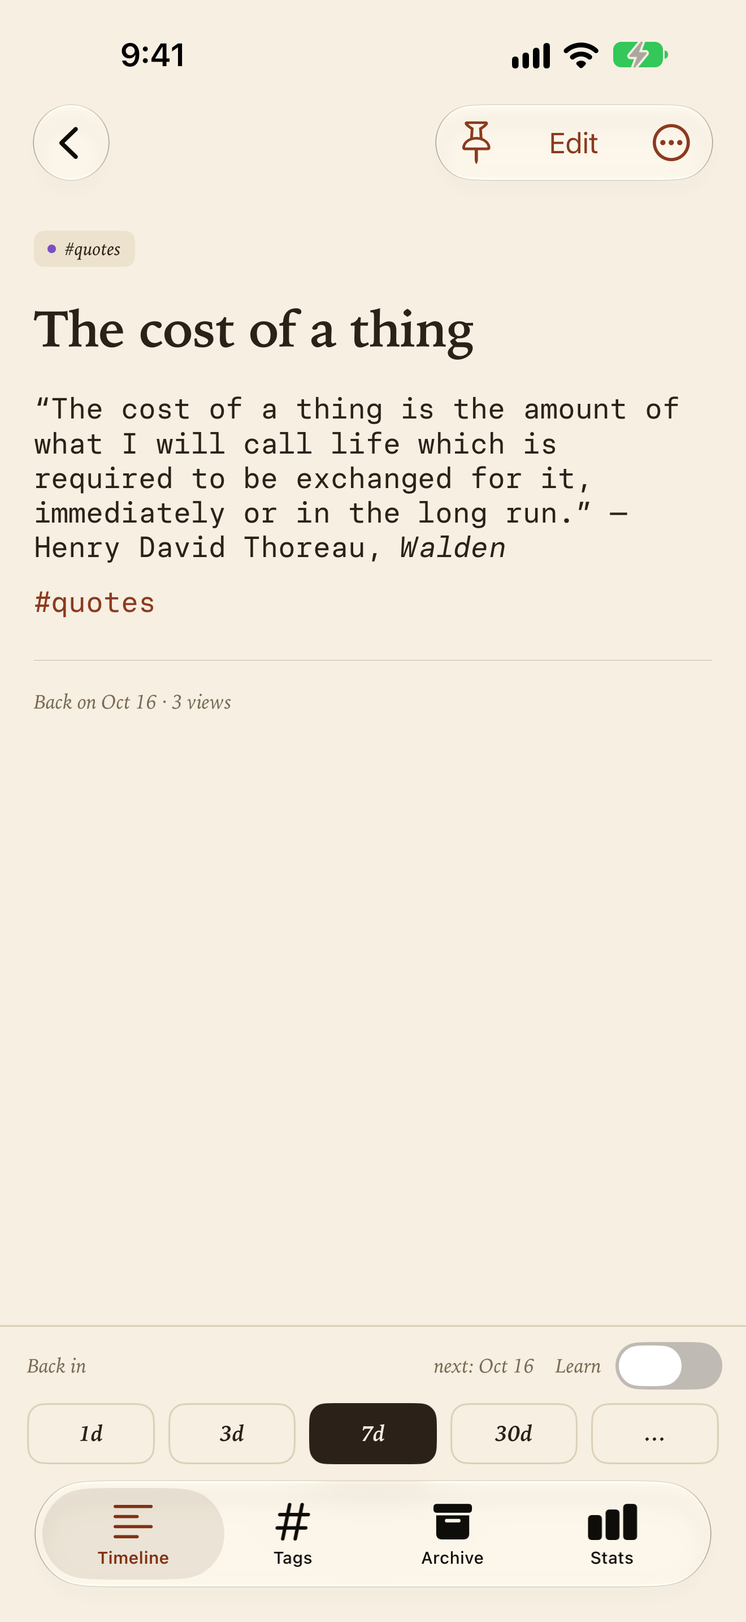
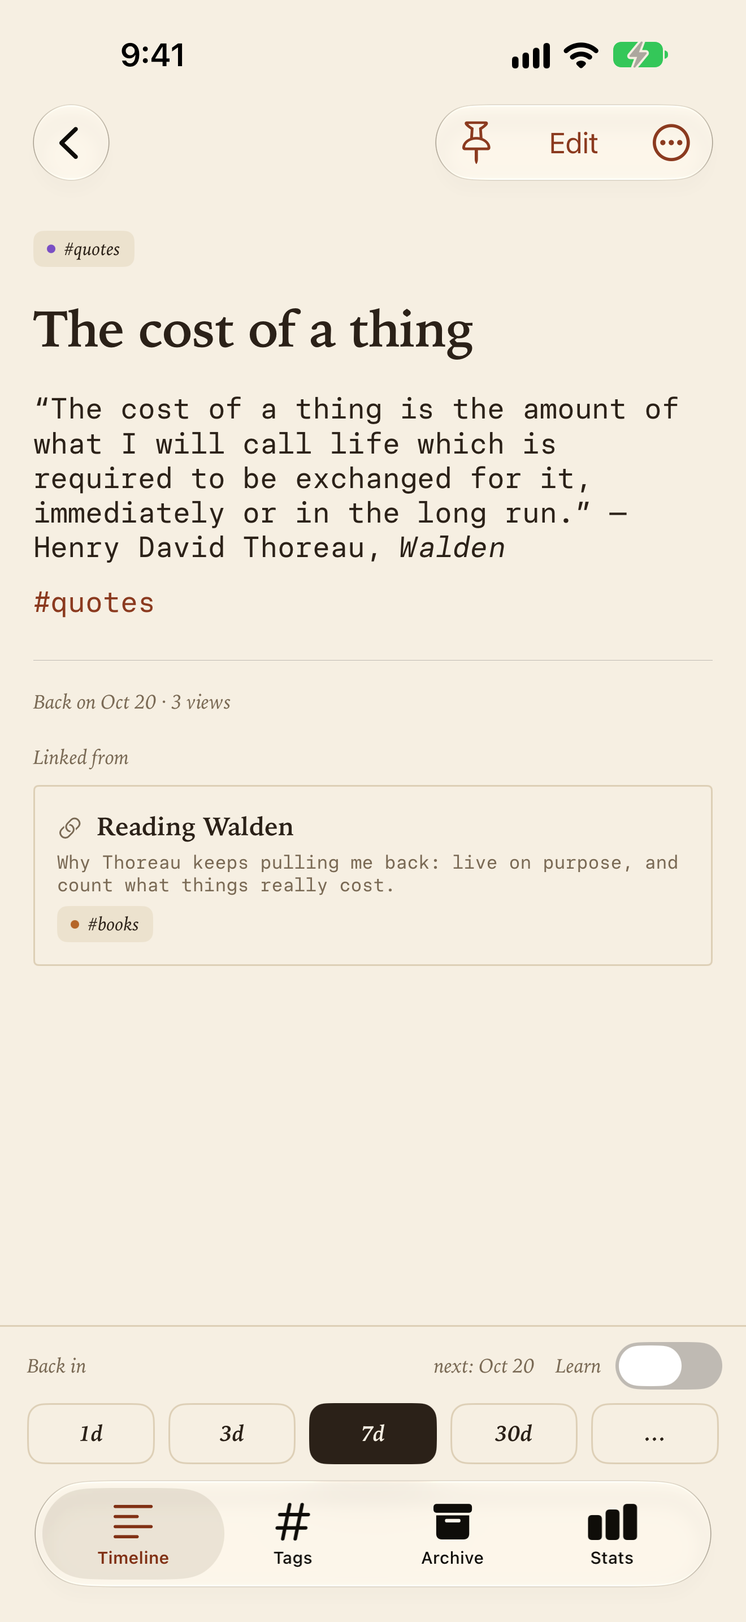
Screenshots: Pop-theme frame, no phones, linked thoughts and files, ten shots
Each capture is a crop in a Pop card with a hard shadow, placed per shot in copy.js (whole screens, cropped
tops, cards off the canvas, tilts). Futura/Avenir Next headlines on Pop yellow; captures stay Ink. New shots:
linked thoughts (a "Reading Walden" thought linking three others) and blocks (gallery plus a PDF file block,
both drawn in code).

Claude-Session: https://claude.ai/code/session_01AqnxEHZ3DQgCfWnMDku6rd

diff --git a/app-store-assets/Screenshots/src/copy.js b/app-store-assets/Screenshots/src/copy.js
@@ -1,23 +1,78 @@
-// All screenshot copy, in App Store order. `name` is the output; `raws` are the captures it shows from raw/ (set by
-// ThoughtRepsUITests/ScreenshotTests.swift), one phone each, laid out by `layout` (default: one phone; 'pair': before
-// and after; 'cascade': stepping down to the right, the last in front). `<mark>` highlights a word; `<loop></loop>` draws the loop
-// mark. Lines of a headline are separated by <br>. Loaded by shot.html, preview.html and gen.mjs.
+// All screenshot copy, in App Store order. `name` is the output. `cards` are the app captures it shows, back to front,
+// each a crop of one raw/ capture (set by ThoughtRepsUITests/ScreenshotTests.swift) in a Pop card with a hard shadow:
+//   raw            the capture's name in raw/
+//   top, bottom    the raw rows shown (raw px; 330-2600 is a thought's content without the nav buttons and tab bar)
+//   pad            blank raw px added below the crop, in `bg` (default the Ink paper, white)
+//   x, y, s, rot   the card's left and top on the 1320x2868 canvas, its scale (raw px to canvas px) and its tilt in degrees
+// A card whose bottom runs past the canvas shows only the top of the screen. `<mark>` highlights a word; `<loop></loop>`
+// draws the loop mark. Lines of a headline are separated by <br>. Loaded by shot.html, preview.html and gen.mjs.
+// The frame is the Pop theme (colors, Futura, Avenir Next); the captures inside are the Ink theme, except the themes shot.
 // Claims are checked against the shipped app: default interval 7 days (Settings), quick intervals 1d/3d/7d/30d plus
-// "…" with more and "Custom…" (ThoughtDetailView), Markdown + gallery blocks, blurred blocks hidden until tapped
-// ("Blur until tapped"), six free themes (AppTheme), search scopes Active/Archived/All, tag colors (Change Color),
-// one reminder a day at the chosen time (SettingsView, ReminderPlanner).
-// The first three show in search results. One supporting line per shot may carry a search word (commonplace book,
-// quote, idea, note, journal) where it reads naturally.
+// "…" with more and "Custom…" (ThoughtDetailView), Markdown, gallery, file and link blocks, blurred blocks hidden until
+// tapped ("Blur until tapped"), linked thoughts open on tap (LinkedThoughtCard), six free themes (AppTheme), search
+// scopes Active/Archived/All, tag colors (Change Color), one reminder a day at the chosen time (SettingsView,
+// ReminderPlanner). The first three show in search results. One supporting line per shot may carry a search word
+// (commonplace book, quote, idea, note, journal) where it reads naturally.
 // Back to front: light and dark alternate, and Ink, the default, is in front.
 const CASCADE = ['pop', 'terminal', 'garden', 'midnight', 'library', 'ink'];
+const THEME_BG = { pop: '#fff6e3', terminal: '#050805', garden: '#f3f5ee', midnight: '#0e1424', library: '#f6efe2', ink: '#ffffff' };
 const SHOTS = [
-  { name: '01-timeline', headline: 'Write it down.<br>It comes <mark>back</mark><loop></loop>', support: 'A commonplace book that brings every quote and idea back in 7 days.' },
-  { name: '02-blurred', headline: 'Hide the answer.<br><mark>Test</mark> yourself.', support: 'Blur part of any thought until you tap to reveal it.', layout: 'pair', raws: ['02-blurred-before', '02-blurred-after'] },
-  { name: '03-learn', headline: 'Learn it<br>for <mark>good</mark>.', support: 'Tap Again or Got it. Each Got it waits longer: 7, 12, 20 days.' },
-  { name: '04-themes', headline: 'Six looks,<br><mark>all</mark> included.', support: 'Ink, Library, Midnight, Garden, Terminal and Pop.', layout: 'cascade', raws: CASCADE.map((t) => `04-themes-${t}`) },
-  { name: '05-interval', headline: 'Pick when you<br>see it <mark>again</mark>.', support: 'Bring it back in 1, 3, 7 or 30 days, or set your own.' },
-  { name: '06-markdown-photos', headline: 'Write in <mark>Markdown</mark>,<br>add photos.', support: 'Headings, lists, quotes and photo galleries in any thought.' },
-  { name: '07-search', headline: 'Find any thought<br>in a <mark>second</mark>.', support: 'Search every note and journal entry, active or archived.' },
-  { name: '08-tags', headline: 'Sort with <mark>#tags</mark>.', support: 'Tag thoughts as you write, and give each tag its own color.' },
-  { name: '09-reminders', headline: 'Get a <mark>nudge</mark>,<br>not a nag.', support: 'One reminder a day at the time you pick, only when thoughts are due.' },
+  {
+    name: '01-timeline', headline: 'Write it down.<br>It comes <mark>back</mark><loop></loop>',
+    support: 'A commonplace book that brings every quote and idea back in 7 days.',
+    cards: [{ raw: '01-timeline', top: 330, bottom: 2560, pad: 40, x: 105, y: 740, s: 0.8 }],
+  },
+  {
+    name: '02-linked', headline: 'Map how your<br>ideas <mark>connect</mark>.',
+    support: 'Link any thought to another, then tap through to follow the thread.',
+    cards: [{ raw: '10-linked', top: 330, bottom: 2600, pad: 80, x: 131, y: 750, s: 0.76 }],
+  },
+  {
+    name: '03-blocks', headline: 'Photos, files<br>and <mark>more</mark>.',
+    support: 'Write in Markdown, then add photo galleries and files to any thought.',
+    cards: [{ raw: '06-markdown-photos', top: 330, bottom: 2600, pad: 80, x: 140, y: 790, s: 0.74, rot: -3 }],
+  },
+  {
+    name: '04-blurred', headline: 'Hide the answer.<br><mark>Test</mark> yourself.',
+    support: 'Blur part of any thought until you tap to reveal it.',
+    cards: [
+      { raw: '02-blurred-before', top: 330, bottom: 1520, x: 50, y: 760, s: 0.7, rot: -3 },
+      { raw: '02-blurred-after', top: 330, bottom: 1520, x: 292, y: 1640, s: 0.7, rot: 3 },
+    ],
+  },
+  {
+    name: '05-learn', headline: 'Learn it<br>for <mark>good</mark>.',
+    support: 'Tap Again or Got it. Each Got it waits longer: 7, 12, 20 days.',
+    cards: [{ raw: '03-learn', top: 330, bottom: 2600, pad: 80, x: 131, y: 770, s: 0.76, rot: 3 }],
+  },
+  {
+    name: '06-themes', headline: 'Six looks,<br><mark>all</mark> included.',
+    support: 'Ink, Library, Midnight, Garden, Terminal and Pop.',
+    cards: CASCADE.map((t, i) => ({
+      raw: `04-themes-${t}`, top: 330, bottom: 1300, x: i % 2 ? 467 : 60, y: 700 + i * 280, s: 0.56, rot: i % 2 ? 3 : -3, bg: THEME_BG[t],
+    })),
+  },
+  {
+    name: '07-interval', headline: 'Pick when you<br>see it <mark>again</mark>.',
+    support: 'Bring it back in 1, 3, 7 or 30 days, or set your own.',
+    cards: [
+      { raw: '05-interval', top: 330, bottom: 2340, x: 70, y: 740, s: 0.7 },
+      { raw: '05-interval', top: 2360, bottom: 2620, x: 66, y: 2080, s: 0.9, rot: -3 },
+    ],
+  },
+  {
+    name: '08-search', headline: 'Find any thought<br>in a <mark>second</mark>.',
+    support: 'Search every note and journal entry, active or archived.',
+    cards: [{ raw: '07-search', top: 170, bottom: 2868, x: 62, y: 740, s: 0.88, rot: -2 }],
+  },
+  {
+    name: '09-tags', headline: 'Sort with <mark>#tags</mark>.',
+    support: 'Tag thoughts as you write, and give each tag its own color.',
+    cards: [{ raw: '08-tags', top: 330, bottom: 2400, pad: 60, x: 131, y: 760, s: 0.76, rot: -3 }],
+  },
+  {
+    name: '10-reminders', headline: 'Get a <mark>nudge</mark>,<br>not a nag.',
+    support: 'One reminder a day at the time you pick, only when thoughts are due.',
+    cards: [{ raw: '09-reminders', top: 150, bottom: 2700, x: 181, y: 760, s: 0.7, rot: 3, bg: '#1d1e22' }],
+  },
 ];

diff --git a/app-store-assets/Screenshots/src/shot.html b/app-store-assets/Screenshots/src/shot.html
@@ -2,23 +2,30 @@
 <meta charset="utf-8" />
 <title>App Store screenshot</title>
 <link rel="stylesheet" href="../../Header/src/shared.css" />
-<link rel="stylesheet" href="../../SearchResults/src/frame.css" />
 <style>
-  /* One 1320x2868 canvas. Each phone is a raw 1320x2868 simulator capture scaled to --sw px wide inside an ink frame;
-     the border, shadow and island scale with it. */
-  :root { --margin: 90px; }
-  #stage { left: 0; top: 0; width: 1320px; height: 2868px; transform: none !important; }
-  .copy { position: absolute; left: var(--margin); right: var(--margin); top: 110px; }
-  h1 { font-size: var(--fs, 130px); text-align: left; }
-  h1 mark { background: linear-gradient(transparent 60%, var(--hl) 60% 92%, transparent 92%); color: inherit; padding: 0 0.04em; }
-  p.support { margin: 40px 0 0; font: 400 50px / 1.3 var(--mono); color: var(--muted); max-width: 1100px; }
-  .phone { --bw: calc(var(--sw) * 0.0229); position: absolute; width: var(--sw); height: calc(var(--sw) * 2868 / 1320); border: var(--bw) solid var(--ink); border-radius: calc(var(--sw) * 0.125 + var(--bw)); box-shadow: calc(var(--sw) * 0.025) calc(var(--sw) * 0.025) 0 var(--ink); background: var(--paper); overflow: hidden; }
-  .phone img { display: block; width: 100%; height: 100%; }
-  .island { position: absolute; left: 50%; top: calc(var(--sw) * 0.0229); width: calc(var(--sw) * 0.2833); height: calc(var(--sw) * 0.0833); transform: translateX(-50%); border-radius: 999px; background: var(--ink); }
+  /* One 1320x2868 canvas in the Pop theme (AppTheme.popPalette, light; Futura titles, Avenir Next text, both shipped
+     with macOS). No phone: each capture is a crop in a card with a thick ink border and a hard offset shadow, like
+     Pop's own cards. Cards are laid out by src/copy.js. */
+  :root { --pop-title: Futura, 'Futura PT', 'Trebuchet MS', sans-serif; --pop-text: 'Avenir Next', Avenir, 'Helvetica Neue', sans-serif;
+    --paper: #fff6e3; --soft: #ffe7b0; --ink: #141210; --muted: #5a5246; --accent: #f2542d; --margin: 90px; }
+  html, body { background: var(--soft); }
+  #stage { left: 0; top: 0; width: 1320px; height: 2868px; transform: none !important; overflow: hidden; }
+  .copy { position: absolute; left: var(--margin); right: var(--margin); top: 120px; z-index: 1; }
+  h1 { margin: 0; font: 700 var(--fs, 136px) / 1.0 var(--pop-title); letter-spacing: -0.02em; color: var(--ink); white-space: nowrap; }
+  h1 mark { background: linear-gradient(transparent 58%, var(--accent) 58% 90%, transparent 90%); color: inherit; padding: 0 0.04em; }
+  h1 .loop { display: inline-block; width: 0.5em; height: 0.5em; margin-left: 0.04em; vertical-align: 0.05em; color: var(--ink); }
+  p.support { margin: 44px 0 0; font: 500 54px / 1.3 var(--pop-text); color: var(--muted); max-width: 1120px; }
+  /* --s scales raw px to canvas px; --top/--bottom pick the raw rows shown; --pad adds blank raw px below. */
+  .card { position: absolute; box-sizing: content-box; overflow: hidden; background: var(--bg, #ffffff);
+    border: 10px solid var(--ink); border-radius: 64px; box-shadow: 34px 34px 0 var(--ink);
+    width: calc(1320px * var(--s)); height: calc((var(--bottom) - var(--top) + var(--pad)) * 1px * var(--s));
+    transform: rotate(var(--rot)); transform-origin: 50% 50%; }
+  .card .clip { position: absolute; left: 0; top: 0; right: 0; height: calc((var(--bottom) - var(--top)) * 1px * var(--s)); overflow: hidden; }
+  .card img { position: absolute; left: 0; top: calc(var(--top) * -1px * var(--s)); width: calc(1320px * var(--s)); display: block; }
 </style>
 <div id="stage">
   <div class="copy"><h1 id="head"></h1><p class="support" id="support"></p></div>
-  <div id="phones"></div>
+  <div id="cards"></div>
 </div>
 <script src="../../Header/src/shared.js"></script>
 <script src="copy.js"></script>
@@ -27,7 +34,7 @@
   // One font size for every headline: the largest at which the widest line of any of them fits.
   const fitSize = () => {
     const head = document.getElementById('head');
-    let fs = 170;
+    let fs = 150;
     for (const shot of SHOTS) {
       head.innerHTML = html(shot.headline);
       for (head.style.setProperty('--fs', fs + 'px'); head.scrollWidth > 1320 - 180; ) {
@@ -36,41 +43,25 @@
     }
     return fs;
   };
-  // Phone frames (outer size: --sw plus two borders), as [left, top, --sw] in canvas px.
-  const outer = (sw) => sw * 1.0458;
-  const LAYOUTS = {
-    single: () => [[(1320 - outer(960)) / 2, 570, 960]],
-    // Before at the left, after lower at the right, so the eye reads the tap left to right. The after phone overlaps
-    // the before phone's right edge only below its blurred block.
-    pair: () => [[40, 600, 640], [1320 - 40 - outer(640) - 16, 1260, 640]],
-    // Phones stepping down to the right, each drawn over the one before, so the last is in front at full size and the
-    // others show their colors and title fonts along the edges.
-    cascade: (n) => {
-      const sw = 600, dx = (1320 - 80 - outer(sw)) / (n - 1);
-      return Array.from({ length: n }, (_, i) => [40 + i * dx, 640 + i * 150, sw]);
-    },
-  };
   window.render = async (name) => {
-    await Promise.all([document.fonts.load("900 100px 'Archivo Variable'"), document.fonts.load("400 50px 'Paper Mono'")]);
+    await Promise.all(['700 100px Futura', "500 50px 'Avenir Next'"].map((f) => document.fonts.load(f)));
     const shot = SHOTS.find((s) => s.name === name);
     const head = document.getElementById('head');
     head.style.setProperty('--fs', fitSize() + 'px');
     head.innerHTML = html(shot.headline);
     document.getElementById('support').textContent = shot.support;
-    const raws = shot.raws ?? [name];
-    const frames = LAYOUTS[shot.layout ?? 'single'](raws.length);
-    const phones = document.getElementById('phones');
-    phones.innerHTML = '';
-    const decoded = raws.map((raw, i) => {
-      const [left, top, sw] = frames[i];
-      const phone = document.createElement('div');
-      phone.className = 'phone';
-      phone.style.cssText = `left: ${left}px; top: ${top}px; --sw: ${sw}px`;
-      const img = document.createElement('img');
-      img.alt = '';
-      img.src = `../raw/${raw}.png`;
-      phone.append(img, Object.assign(document.createElement('div'), { className: 'island' }));
-      phones.append(phone);
+    const cards = document.getElementById('cards');
+    cards.innerHTML = '';
+    const decoded = shot.cards.map((c) => {
+      const card = document.createElement('div');
+      card.className = 'card';
+      card.style.cssText = `left: ${c.x}px; top: ${c.y}px; --s: ${c.s}; --top: ${c.top}; --bottom: ${c.bottom}; --pad: ${c.pad ?? 0};`
+        + ` --rot: ${c.rot ?? 0}deg; --bg: ${c.bg ?? '#ffffff'}`;
+      const clip = Object.assign(document.createElement('div'), { className: 'clip' });
+      const img = Object.assign(document.createElement('img'), { alt: '', src: `../raw/${c.raw}.png` });
+      clip.append(img);
+      card.append(clip);
+      cards.append(card);
       return img.decode();
     });
     await Promise.all(decoded);

diff --git a/ThoughtReps/App/ScreenshotMode.swift b/ThoughtReps/App/ScreenshotMode.swift
@@ -58,6 +58,10 @@ enum ScreenshotSeed {
         var learnGap: Int? = nil
         var blurred: (title: String, content: String)? = nil
         var gallery: (title: String, scenes: [Scene])? = nil
+        /// A PDF attached as a file block, drawn in code: its filename and the lines on its page.
+        var pdf: (filename: String, lines: [String])? = nil
+        /// Titles of earlier items this one links to, as link blocks in this order.
+        var links: [String] = []
     }
 
     /// A commonplace book: quotes with their source, book notes, lessons, sermon and podcast takeaways.
@@ -106,7 +110,8 @@ enum ScreenshotSeed {
             #travel
             """,
             createdDaysAgo: 7, dueInDays: 1,
-            gallery: ("Moodboard", [.dusk, .alpine, .meadow, .city])
+            gallery: ("Moodboard", [.dusk, .alpine, .meadow, .city]),
+            pdf: ("Train tickets.pdf", ["Mountain Line", "Sat 7:05 AM", "Coach 4, seats 21-22"])
         ),
         Item(
             body: "# Hope is the thing with feathers\nSay the first two lines of Emily Dickinson’s poem from memory.\n\n#poems",
@@ -149,6 +154,11 @@ enum ScreenshotSeed {
             body: "# Idea: a tool library\nBorrow the drill you use twice a year. Start with the neighbors on our street.\n\n#ideas",
             createdDaysAgo: 30, dueInDays: 9, views: 3
         ),
+        Item(
+            body: "# Reading Walden\nWhy Thoreau keeps pulling me back: live on purpose, and count what things really cost.\n\n#books",
+            createdDaysAgo: 3, dueInDays: 4, views: 1,
+            links: ["The cost of a thing", "Trust thyself", "Thirteen virtues, one a week"]
+        ),
     ]
 
     private static let tagColors: [String: String] = [
@@ -168,6 +178,7 @@ enum ScreenshotSeed {
     static func insert(into context: ModelContext, now: Date) {
         let store = ThoughtStore(context: context, defaultIntervalDays: Scheduler.defaultIntervalDays)
         let calendar = Calendar.current
+        var idsByTitle: [String: UUID] = [:]
         for item in items {
             var blocks: [BlockDraft] = []
             if let blurred = item.blurred {
@@ -177,11 +188,22 @@ enum ScreenshotSeed {
                 let images = gallery.scenes.compactMap { $0.draft() }
                 blocks.append(BlockDraft(kind: .gallery, title: gallery.title, images: images))
             }
+            if let pdf = item.pdf {
+                let data = Self.pdfData(lines: pdf.lines)
+                blocks.append(BlockDraft(kind: .file, file: FileDraft(
+                    filename: pdf.filename, typeIdentifier: UTType.pdf.identifier, byteCount: data.count, thumbnailData: nil, data: data
+                )))
+            }
+            for title in item.links {
+                guard let id = idsByTitle[title] else { preconditionFailure("Screenshot seed: no thought titled \"\(title)\"") }
+                blocks.append(BlockDraft(kind: .thoughtLink, linkedThoughtID: id))
+            }
             let created = Scheduler.adding(days: -item.createdDaysAgo, to: now, calendar: calendar)
             let thought = store.create(body: item.body, blocks: blocks, learn: item.learnGap != nil, now: created)
             guard thought.modelContext != nil else {
                 preconditionFailure("Screenshot seed: saving \"\(item.body.prefix(40))\" failed")
             }
+            idsByTitle[thought.title] = thought.id
             let nextDueAt = Scheduler.adding(days: item.dueInDays, to: now, calendar: calendar)
                 .addingTimeInterval(item.dueInDays == 0 ? -3600 : 0)
             let lastViewedAt = item.views > 0
@@ -202,6 +224,16 @@ enum ScreenshotSeed {
         let tags = (try? context.fetch(FetchDescriptor<Tag>())) ?? []
         for tag in tags {
             if let hex = tagColors[tag.name] { store.setColor(tag, hex: hex, now: now) }
+        }
+    }
+
+    /// A one-page PDF with a few lines of text, so no document files are bundled.
+    private static func pdfData(lines: [String]) -> Data {
+        UIGraphicsPDFRenderer(bounds: CGRect(x: 0, y: 0, width: 612, height: 792)).pdfData { context in
+            context.beginPage()
+            for (index, line) in lines.enumerated() {
+                (line as NSString).draw(at: CGPoint(x: 72, y: 72 + CGFloat(index) * 32), withAttributes: [.font: UIFont.systemFont(ofSize: 22)])
+            }
         }
     }
 

diff --git a/ThoughtRepsUITests/ScreenshotTests.swift b/ThoughtRepsUITests/ScreenshotTests.swift
@@ -120,6 +120,21 @@ final class ScreenshotTests: XCTestCase {
         snap("06-markdown-photos")
     }
 
+    /// A thought linking to three others, as cards. Not due, so it's opened from its tag.
+    func testLinkedThoughts() {
+        launch()
+        openSection("Tags")
+        let books = app.staticTexts["#books"]
+        XCTAssertTrue(books.waitForExistence(timeout: 10))
+        books.tap()
+        let all = app.buttons["All"]
+        XCTAssertTrue(all.waitForExistence(timeout: 10))
+        all.tap()
+        openThought("Reading Walden")
+        XCTAssertTrue(app.buttons["Linked thought: Trust thyself"].waitForExistence(timeout: 10))
+        snap("10-linked")
+    }
+
     func testSearch() {
         launch()
         app.buttons["Search"].tap()

diff --git a/app-store-assets/Screenshots/README.md b/app-store-assets/Screenshots/README.md
@@ -1,6 +1,6 @@
 # App Store screenshots
 
-The product page screenshots (Apple's "Screenshots" asset): real simulator captures of the app inside a faked ink-style phone, under a short headline and a supporting line. One folder per asset slot under `app-store-assets/`.
+The product page screenshots (Apple's "Screenshots" asset): real simulator captures of the app, cropped into Pop-theme cards, under a short headline and a supporting line. One folder per asset slot under `app-store-assets/`.
 
 ## Apple's specs
 
@@ -10,19 +10,22 @@ The product page screenshots (Apple's "Screenshots" asset): real simulator captu
 
 ## The set
 
-Output is `static/<name>-1320x2868.png`. The copy and the set live in one place, `src/copy.js` (which captures each output shows, and its layout). Claims are checked against the shipped app (default interval 7 days, 1d/3d/7d/30d chips plus more intervals and "Custom…", Markdown and gallery blocks, blurred blocks, Learn mode's Again / Got it and its growing waits (7, 12, 20 days), six free themes, Active/Archived/All search, tag colors, one daily reminder at the chosen time); nothing from the unbuilt rest of Study mode. The sample content reads like a commonplace book (a quote with its source, a book note, a sermon and a podcast takeaway, a lesson, a poem to memorize), and any quote or poem in it must be public domain.
+Output is `static/<name>-1320x2868.png`. The copy and the set live in one place, `src/copy.js` (which captures each output shows, and its layout). Claims are checked against the shipped app (default interval 7 days, 1d/3d/7d/30d chips plus more intervals and "Custom…", Markdown, gallery, file and link blocks, blurred blocks, Learn mode's Again / Got it and its growing waits (7, 12, 20 days), six free themes, Active/Archived/All search, tag colors, one daily reminder at the chosen time); nothing from the unbuilt rest of Study mode. The sample content reads like a commonplace book (a quote with its source, a book note, a sermon and a podcast takeaway, a lesson, a poem to memorize), and any quote or poem in it must be public domain.
 
 1. `01-timeline`: "Write it down. It comes back." / "A commonplace book that brings every quote and idea back in 7 days." The Timeline with a pinned thought and four due thoughts, one of them in Learn mode (the seed keeps the list ending above the + button).
-2. `02-blurred`: "Hide the answer. Test yourself." / "Blur part of any thought until you tap to reveal it." Two phones, a thought with a blurred "Answer" block before and after the tap (`02-blurred-before`, `02-blurred-after`).
-3. `03-learn`: "Learn it for good." / "Tap Again or Got it. Each Got it waits longer: 7, 12, 20 days." A due Learn thought (two Dickinson lines to memorize) with its blurred lines revealed above Again ("Tomorrow") and Got it ("In 12 days"; the seed sets its last wait to 7).
-4. `04-themes`: "Six looks, all included." / "Ink, Library, Midnight, Garden, Terminal and Pop." Six phones in a cascade, the same thought in each theme, Ink in front (`04-themes-<theme>`); the supporting line names them, so the phones carry no labels.
-5. `05-interval`: "Pick when you see it again." / "Bring it back in 1, 3, 7 or 30 days, or set your own." A thought with its "Back in" bar: 1d, 3d, 7d (selected), 30d and the more-intervals chip.
-6. `06-markdown-photos`: "Write in Markdown, add photos." / "Headings, lists, quotes and photo galleries in any thought." A thought with bold, italic, a list, a quote and a gallery (not due, so the test opens it from its tag).
-7. `07-search`: "Find any thought in a second." / "Search every note and journal entry, active or archived." Search for "reflect", matches in bold.
-8. `08-tags`: "Sort with #tags." / "Tag thoughts as you write, and give each tag its own color." The Tags list.
-9. `09-reminders`: "Get a nudge, not a nag." / "One reminder a day at the time you pick, only when thoughts are due." The reminder notification on the Lock Screen ("Thought Reps", "4 thoughts are back today").
+2. `02-linked`: "Map how your ideas connect." / "Link any thought to another, then tap through to follow the thread." "Reading Walden" with link cards to three other thoughts (raw `10-linked`; not due, so the test opens it from its tag).
+3. `03-blocks`: "Photos, files and more." / "Write in Markdown, then add photo galleries and files to any thought." A thought with bold, italic, a list, a quote, a gallery and a PDF file block (raw `06-markdown-photos`; the PDF is drawn in code), tilted.
+4. `04-blurred`: "Hide the answer. Test yourself." / "Blur part of any thought until you tap to reveal it." Two cropped cards, a thought with a blurred "Answer" block before and after the tap (`02-blurred-before`, `02-blurred-after`).
+5. `05-learn`: "Learn it for good." / "Tap Again or Got it. Each Got it waits longer: 7, 12, 20 days." A due Learn thought (two Dickinson lines to memorize) with its blurred lines revealed above Again ("Tomorrow") and Got it ("In 12 days"; the seed sets its last wait to 7), tilted (raw `03-learn`).
+6. `06-themes`: "Six looks, all included." / "Ink, Library, Midnight, Garden, Terminal and Pop." Six cropped cards stepping down, the same thought in each theme, Ink in front (`04-themes-<theme>`); the supporting line names them, so the cards carry no labels.
+7. `07-interval`: "Pick when you see it again." / "Bring it back in 1, 3, 7 or 30 days, or set your own." A thought above a larger, tilted crop of its "Back in" bar: 1d, 3d, 7d (selected), 30d and the more-intervals chip (both from raw `05-interval`).
+8. `08-search`: "Find any thought in a second." / "Search every note and journal entry, active or archived." Search for "reflect", matches in bold; the card runs off the bottom (raw `07-search`).
+9. `09-tags`: "Sort with #tags." / "Tag thoughts as you write, and give each tag its own color." The Tags list (raw `08-tags`).
+10. `10-reminders`: "Get a nudge, not a nag." / "One reminder a day at the time you pick, only when thoughts are due." The reminder notification on the Lock Screen ("Thought Reps", "4 thoughts are back today"; raw `09-reminders`).
 
-The first three are the strongest ideas: the loop, self-testing with a blurred answer, and Learn mode. One supporting line per shot may carry a search word (commonplace book, quote, idea, note, journal) where it reads naturally. The phone is drawn in CSS (ink border, hard offset shadow, a plain island); it is not Apple artwork. All nine use one headline size, the largest at which the widest headline fits.
+The first three are what show in search results: the loop, linked thoughts, and rich blocks. One supporting line per shot may carry a search word (commonplace book, quote, idea, note, journal) where it reads naturally. All ten use one headline size, the largest at which the widest headline line fits.
+
+The frame is the Pop theme: its yellow (`#FFE7B0`) background, Futura headlines with a coral highlight, and Avenir Next supporting lines (both fonts ship with macOS, so render on a Mac). The captures inside are the Ink theme, except the themes shot. There is no phone: each capture is a crop in a card with a thick ink border and a hard offset shadow, like Pop's own cards. `src/copy.js` places every card (which raw rows it shows, scale, position, tilt), so shots vary: whole screens, cropped tops, cards running off the canvas, tilted cards.
 
 ## How the captures work
 
